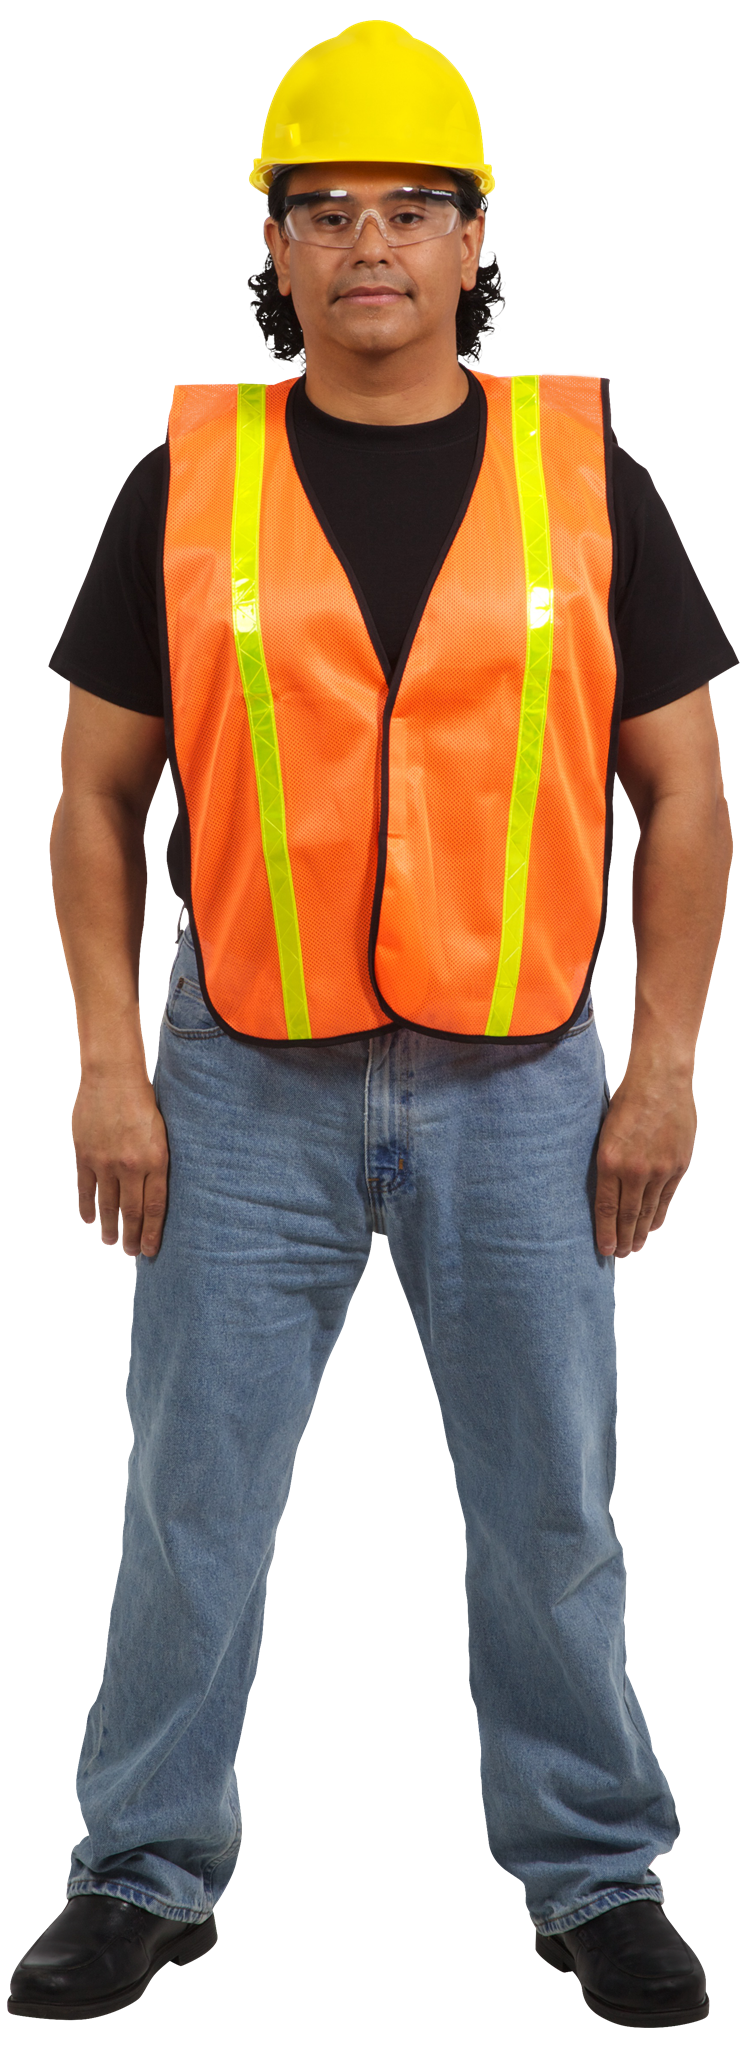
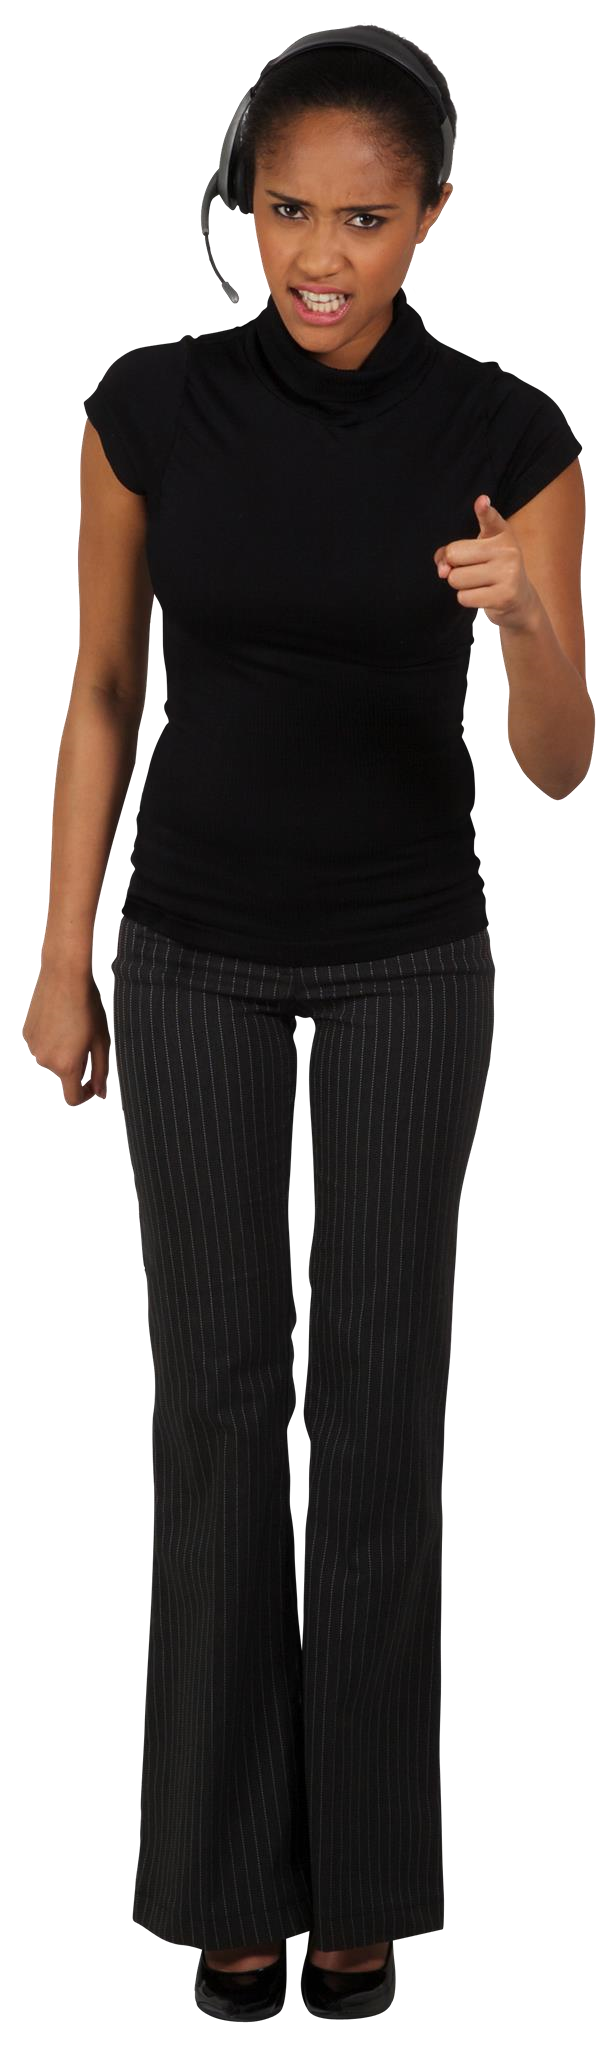
Updated Rise module June 7

diff --git a/index.html b/index.html
@@ -1,6 +1,6 @@
 <!doctype html>
 <!-- 
-course package version: IMhQn5de
+course package version: jZV9p8ij
 rise_frontend sha: f02bf3665df1b189e184a6a60174c886232f0936
 learn_distribution_frontend sha: d888db683bcdc0c9f97ef23478dbcdb9cd3b6247
 mondrian sha: 41ebe454b76fbca3423ffe1061b801f5eb0fa301